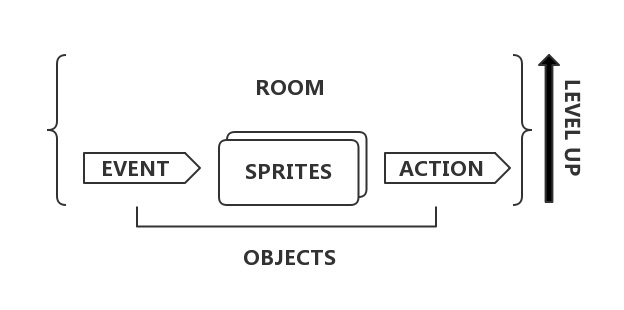
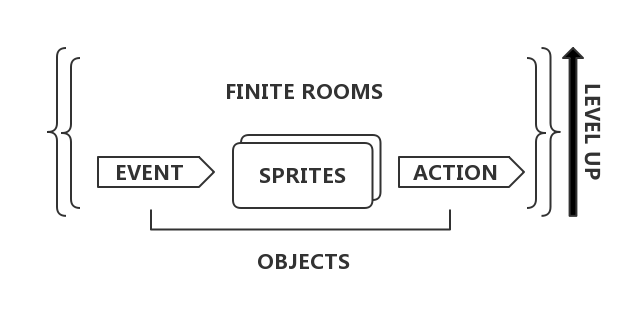
Site updated: 2018-10-13 18:41:39

diff --git a/2018/10/12/what-is-game/index.html b/2018/10/12/what-is-game/index.html
@@ -167,42 +167,47 @@
 <h3 id="Definition-of-game-from-“Rules-of-play-Game-design-fundamentals”-by-Salen-amp-Zimmerman"><a href="#Definition-of-game-from-“Rules-of-play-Game-design-fundamentals”-by-Salen-amp-Zimmerman" class="headerlink" title="Definition of game from “Rules of play : Game design fundamentals” by Salen &amp; Zimmerman"></a>Definition of game from “Rules of play : Game design fundamentals” by Salen &amp; Zimmerman</h3><blockquote>
 <p>A game is a system in which players engage in an artificial conflict, defined by rules, that results in a quantifiable outcome.</p>
 </blockquote>
-<p>This is one of the most widely recgonized academic definition of game. The key words there are <strong><em>SYSTEM / PLAYER / ARTIFICIAL CONFLICT / RULES / QUANTIFIABLE OUTCOM</em></strong>. We will compare it with GMS equation latter.</p>
-<h3 id="The-GMS’s-equation"><a href="#The-GMS’s-equation" class="headerlink" title="The GMS’s equation"></a>The GMS’s equation</h3><p><img src="/2018/10/12/what-is-game/GMS-Equation.png" alt=""></p>
-<p>These is the last page of the first chapter of official guide of <a href="https://www.youtube.com/watch?v=ubvrKQlI_1A" target="_blank" rel="external">GameMaker Studio 2</a> which introduces some basic configuration of GMS engine.</p>
-<h3 id="A-Graph-Definition-by-notlsd"><a href="#A-Graph-Definition-by-notlsd" class="headerlink" title="A Graph Definition by @notlsd"></a>A Graph Definition by @notlsd</h3><p><img src="/2018/10/12/what-is-game/General-Game-Architecture.jpg" alt=""></p>
-<p>The graph is drawn by pseudo-UML language, which defines a game, more specifically, one cell of a game, normally a level.</p>
-<p><strong><em>A game is one or more rooms under level-up conditions which includes sprites under event-action response</em></strong></p>
+<p>This is one of the most widely recgonized academic definition of game. The key words there are <strong>SYSTEM / PLAYER / ARTIFICIAL CONFLICT / RULES / QUANTIFIABLE OUTCOM</strong>. We will compare it with GMS equation later.</p>
+<h3 id="The-GMS-Equation"><a href="#The-GMS-Equation" class="headerlink" title="The GMS Equation"></a>The GMS Equation</h3><p>This is the last page of the first chapter of official guide of <a href="https://www.youtube.com/watch?v=ubvrKQlI_1A" target="_blank" rel="external">GameMaker Studio 2</a> which introduces some basic configuration of GMS engine which @notlsd call it “GMS equation”</p>
+<p><img src="/2018/10/12/what-is-game/Users/notlsd/Blog/source/_posts/what-is-game/GMS-Equation.png" alt=""></p>
+<h3 id="A-Graph-Definition-by-notlsd"><a href="#A-Graph-Definition-by-notlsd" class="headerlink" title="A Graph Definition by @notlsd"></a>A Graph Definition by @notlsd</h3><p><img src="/2018/10/12/what-is-game/Users/notlsd/Blog/source/_posts/what-is-game/General-Game-Architecture.jpg" alt="img"><span class="imgTitle">img</span></p>
+<p>This graph is drawn by pseudo-UML language, which defines a game.</p>
+<p><strong>A game is  finite number of rooms under level-up conditions which includes sprites under event-action responses</strong></p>
 <h3 id="Five-Key-Words-A-Detailed-Comparison-Between-Two-Definitions"><a href="#Five-Key-Words-A-Detailed-Comparison-Between-Two-Definitions" class="headerlink" title="Five Key Words - A Detailed Comparison Between Two Definitions"></a>Five Key Words - A Detailed Comparison Between Two Definitions</h3><ul>
-<li>ARTIFICIAL CONFLICT - Game design’s boundary </li>
+<li>SYSTEM - FINITY of Game Design</li>
 </ul>
-<p>There is a boundary in game design, which inside we call it a game. In other words, there is a clear deference we can distinguish an item whether in the game. In the boundary, is the artificial conflict which game designer have built<sup id="fnref:1"><a href="#fn:1" rel="footnote"><span class="hint--top-right hint--error hint--large" aria-label="There is still a very clear boundry in AR / VR game, in other word we can clearly tell if we are in the game.
-">[1]</span></a></sup>. We call SYSTEM but more specifically ,it should be called boundry. “Finite-infinite games” inside system</p>
+<p>There are two type games, finite game and infinite game<sup id="fnref:1"><a href="#fn:1" rel="footnote"><span class="hint--top-right hint--error hint--large" aria-label="This conecept comes from " finite="" and="" infinite="" games"="" by="" james="" carse="" "="">[1]</span></a></sup>, but only the first type can be designed. </p>
+<p>The following is definition in Wbester-Meriate’s dictionary of word “System”, more specificaly the 1d item </p>
+<blockquote>
+<p>A group of devices or artificial objects or an organization forming a network especially for distributing something or serving a common purpose</p>
+</blockquote>
+<p>What we designed is a system. If and only if we use the finity resoures the system can be built. The apperance of this finity is the limited quantity of game rooms<sup id="fnref:2"><a href="#fn:2" rel="footnote"><span class="hint--top-right hint--error hint--large" aria-label="There is still a very clear boundry in AR / VR game, in other word we can clearly tell if we are in the game.
+">[2]</span></a></sup>.</p>
 <ul>
-<li>SYSTEM - Series of LEVEL-UP ROOMS</li>
+<li>ARTIFICIAL CONFLICT - Series of LEVEL-UP ROOMS</li>
 </ul>
-<p>Inside the boundary, the game designer have built systems. More specifically, we use system to implement previous artificial conflict, via programmer’s terminology “system is instantiation of artificial conflict”. </p>
-<p>The system consists a series of rooms in which contains one special envent-action response<sup id="fnref:2"><a href="#fn:2" rel="footnote"><span class="hint--top-right hint--error hint--large" aria-label="We will discuss it detailly in " rules"="" section="" "="">[2]</span></a></sup>. As game going on, status in different rooms have been leveled up gradually. In extremely simple condition, game only consists one room and level-up just in that room.</p>
+<p>What game designer have built is an artificial conflicts. More specifically, we use system to implement it, via programmer’s terminology “system is instantiation of an artificial conflict”. </p>
+<p>The artificial conflicts consists a series of rooms in which contains it’s own envent-action response<sup id="fnref:3"><a href="#fn:3" rel="footnote"><span class="hint--top-right hint--error hint--large" aria-label="There is more detailed discussion in " rules"="" section="" "="">[3]</span></a></sup>. A room is a physical or virtual space where game take place. As game going on, status in different rooms have been leveled up gradually. In extremely simple condition, game only consists one room and level-up just in that room.</p>
 <ul>
-<li>PLAYER - Human or Artificial SPIRITS</li>
+<li>PLAYER - Human or Artificial SPIRITES</li>
 </ul>
-<p>According to Wikipedia </p>
-<p>It’s a little sophisticated about the important role sprites plays in game design. Mario is the sprite in Super Mario Bros; Pikachu is a sprites in Pokémon. It’s too important that Apple names iOS game design framework SpriteKit.</p>
-<p>In programming, player is sprits. These players can be controlled by Human which is player button in player’s view, or controlled by A.I. which simply called NPC (Non-player-contolled).</p>
+<p>According to Wikipedia</p>
+<p>It’s a little sophisticated about the important role which sprites plays in game design. Mario is the sprite in Super Mario Bros; Pikachu is a sprites in Pokémon; Pac-man is the sprite in the Pac-man. Sprites is  too important in game design that Apple names iOS game design framework “SpriteKit”.</p>
+<p>in the view of programming perspective, players in game is sprites. These players can be controlled by Human which is player’s avatar itself , or controlled by A.I. which simply called NPC (Non-player-contolled).</p>
 <ul>
 <li>RULES - EVENT-ACTION Response</li>
 </ul>
 <p>GMS is using Event-Action to represent basic game logic.  As we mentioned earlier the core difference between rooms is the different event-action response they contains</p>
-<p>The following is one of definitions in Wbester-Meriate’s dictionary of word “Play”, more specificaly the 4c item </p>
+<p>The following is definition in Wbester-Meriate’s dictionary of word “Play”, more specificaly the 4c item </p>
 <blockquote>
 <p>to perform an action during one’s turn in a game</p>
 </blockquote>
-<p>In the system the player plays. The key concept of “play” itself is to perform some action to respond some event, In Tetris when bricks drops off, the player move it, In Civilization player respond to massive number of event from “Declaration of War” to “Change Production Queue”</p>
+<p>In the system the player plays. The key concept of “play” itself is to perform some action to respond some event, In “Tetris” when bricks drops off, the player move it, In “Civilization” player respond to massive number of event from “Declaration of War” to “Change Production Queue”</p>
 <ul>
 <li>QUANTIFIABLE OUTCOM - LEVEL-UP of everything</li>
 </ul>
-<p>Quantifiable outcom is the connection to everything in the game. The gaming terminology is “Level-up”. During the game process, players and enenimis are all become stronger. And if you cannot level up enough, you lose. These stepped level-up is the source of game’s rythms. </p>
-<h3 id="Instances-Analysis-Tetris-•-Civilization-•-Overwatch-•-Go"><a href="#Instances-Analysis-Tetris-•-Civilization-•-Overwatch-•-Go" class="headerlink" title="Instances Analysis - Tetris • Civilization • Overwatch • Go"></a>Instances Analysis - Tetris • Civilization • Overwatch • Go</h3><table>
+<p>Quantifiable outcom is the connection of everything in the game. The gaming terminology is “Level-up”. During the game process, players and enenimis are all become stronger. And if you cannot level up enough, you lose. These stepped level-up is also the source of game’s rythms. </p>
+<h3 id="Instances-Analysis-Tetris-•-Civilization-•-Overwatch-•-Go-•-Slay-Spire"><a href="#Instances-Analysis-Tetris-•-Civilization-•-Overwatch-•-Go-•-Slay-Spire" class="headerlink" title="Instances Analysis - Tetris • Civilization • Overwatch • Go • Slay Spire"></a>Instances Analysis - Tetris • Civilization • Overwatch • Go • Slay Spire</h3><table>
 <thead>
 <tr>
 <th style="text-align:center">Game</th>
@@ -212,6 +217,7 @@
 <th style="text-align:center">Event</th>
 <th style="text-align:center">Action</th>
 <th style="text-align:center">Quantitive Level Up</th>
+<th style="text-align:center">Finity  Criterion</th>
 </tr>
 </thead>
 <tbody>
@@ -223,6 +229,7 @@
 <td style="text-align:center">Dropping Bricks</td>
 <td style="text-align:center">Moving Bricks</td>
 <td style="text-align:center">Count of Elemination</td>
+<td style="text-align:center">No Space</td>
 </tr>
 <tr>
 <td style="text-align:center">Civilization</td>
@@ -232,37 +239,44 @@
 <td style="text-align:center">Turn-based Event</td>
 <td style="text-align:center">Player’s action</td>
 <td style="text-align:center">Culture • Food • Gold • Happiness • Production • Religion • Science • Tourism • Population etc</td>
+<td style="text-align:center">Any Civilization Win</td>
 </tr>
 <tr>
-<td style="text-align:center">Overwatch<sup id="fnref:4"><a href="#fn:4" rel="footnote"><span class="hint--top-right hint--error hint--large" aria-label="Thanks to @Banaive for information about Overwatch">[4]</span></a></sup></td>
+<td style="text-align:center">Overwatch <sup id="fnref:5"><a href="#fn:5" rel="footnote"><span class="hint--top-right hint--error hint--large" aria-label="Thanks to @Banaive for information about Overwatch">[5]</span></a></sup></td>
 <td style="text-align:center">FPS</td>
 <td style="text-align:center">Artificial Map</td>
 <td style="text-align:center">Hero</td>
 <td style="text-align:center">Others’ Action</td>
 <td style="text-align:center">Heros’ Action</td>
 <td style="text-align:center">Ultimate</td>
+<td style="text-align:center">Time Up / Map Control</td>
 </tr>
 <tr>
-<td style="text-align:center">Slay the Spire</td>
+<td style="text-align:center">Slay Spire</td>
 <td style="text-align:center">Card</td>
 <td style="text-align:center">Battlefiled Box • Map</td>
 <td style="text-align:center">Player • Enemy</td>
 <td style="text-align:center">Enemy’s Action</td>
 <td style="text-align:center">Player’s Action</td>
 <td style="text-align:center">Coins • Relic • Card</td>
+<td style="text-align:center">50th Floor / Death</td>
 </tr>
 <tr>
 <td style="text-align:center">Go</td>
 <td style="text-align:center">Board</td>
 <td style="text-align:center">Go board</td>
 <td style="text-align:center">Go stone</td>
-<td style="text-align:center">Enemy Play Stone</td>
-<td style="text-align:center">Play stone</td>
+<td style="text-align:center">Opponent ‘s Stone</td>
+<td style="text-align:center">Play Stone</td>
 <td style="text-align:center">Territory</td>
+<td style="text-align:center">No Space</td>
 </tr>
 </tbody>
 </table>
-<div id="footnotes"><hr><div id="footnotelist"><ol style="list-style: none; padding-left: 0; margin-left: 40px"><li id="fn:1"><span style="display: inline-block; vertical-align: top; padding-right: 10px; margin-left: -40px">1.</span><span style="display: inline-block; vertical-align: top; margin-left: 10px;">There is still a very clear boundry in AR / VR game, in other word we can clearly tell if we are in the game.<a href="#fnref:1" rev="footnote"> ↩</a></span></li><li id="fn:2"><span style="display: inline-block; vertical-align: top; padding-right: 10px; margin-left: -40px">2.</span><span style="display: inline-block; vertical-align: top; margin-left: 10px;">We will discuss it detailly in &quot;RULES&quot; section<a href="#fnref:2" rev="footnote"> ↩</a></span></li><li id="fn:3"><span style="display: inline-block; vertical-align: top; padding-right: 10px; margin-left: -40px">3.</span><span style="display: inline-block; vertical-align: top; margin-left: 10px;">&gt; In computer graphics, a sprite is a two-dimensional bitmap that is integrated into a larger scene.<a href="#fnref:3" rev="footnote"> ↩</a></span></li><li id="fn:3"><span style="display: inline-block; vertical-align: top; padding-right: 10px; margin-left: -40px">3.</span><span style="display: inline-block; vertical-align: top; margin-left: 10px;"><a href="https://en.wikipedia.org/wiki/Sprite_(computer_graphics" target="_blank" rel="external">https://en.wikipedia.org/wiki/Sprite_(computer_graphics</a>)<a href="#fnref:3" rev="footnote"> ↩</a></span></li><li id="fn:4"><span style="display: inline-block; vertical-align: top; padding-right: 10px; margin-left: -40px">4.</span><span style="display: inline-block; vertical-align: top; margin-left: 10px;">Thanks to @Banaive for information about Overwatch<a href="#fnref:4" rev="footnote"> ↩</a></span></li></ol></div></div>
+<ul>
+<li>Update Log 2.0 - Add Everthing related about “Finity” including but not limited to words, graph and table</li>
+</ul>
+<div id="footnotes"><hr><div id="footnotelist"><ol style="list-style: none; padding-left: 0; margin-left: 40px"><li id="fn:1"><span style="display: inline-block; vertical-align: top; padding-right: 10px; margin-left: -40px">1.</span><span style="display: inline-block; vertical-align: top; margin-left: 10px;">This conecept comes from &quot;Finite and Infinite Games&quot; by James Carse<a href="#fnref:1" rev="footnote"> ↩</a></span></li><li id="fn:2"><span style="display: inline-block; vertical-align: top; padding-right: 10px; margin-left: -40px">2.</span><span style="display: inline-block; vertical-align: top; margin-left: 10px;">There is still a very clear boundry in AR / VR game, in other word we can clearly tell if we are in the game.<a href="#fnref:2" rev="footnote"> ↩</a></span></li><li id="fn:3"><span style="display: inline-block; vertical-align: top; padding-right: 10px; margin-left: -40px">3.</span><span style="display: inline-block; vertical-align: top; margin-left: 10px;">There is more detailed discussion in &quot;RULES&quot; section<a href="#fnref:3" rev="footnote"> ↩</a></span></li><li id="fn:4"><span style="display: inline-block; vertical-align: top; padding-right: 10px; margin-left: -40px">4.</span><span style="display: inline-block; vertical-align: top; margin-left: 10px;">&gt; In computer graphics, a sprite is a two-dimensional bitmap that is integrated into a larger scene.<a href="#fnref:4" rev="footnote"> ↩</a></span></li><li id="fn:4"><span style="display: inline-block; vertical-align: top; padding-right: 10px; margin-left: -40px">4.</span><span style="display: inline-block; vertical-align: top; margin-left: 10px;"><a href="https://en.wikipedia.org/wiki/Sprite_" target="_blank" rel="external">https://en.wikipedia.org/wiki/Sprite_</a>(computer_graphics)<a href="#fnref:4" rev="footnote"> ↩</a></span></li><li id="fn:5"><span style="display: inline-block; vertical-align: top; padding-right: 10px; margin-left: -40px">5.</span><span style="display: inline-block; vertical-align: top; margin-left: 10px;">Thanks to @Banaive for information about Overwatch<a href="#fnref:5" rev="footnote"> ↩</a></span></li></ol></div></div>
     </div>
 
     

diff --git a/2017/06/13/polytopia-a-mobilized-civilization/index.html b/2017/06/13/polytopia-a-mobilized-civilization/index.html
@@ -170,7 +170,7 @@ This essay will analyze the game design of &amp;lt; The Battle of Polytopia &amp
 <a id="more"></a>
 <h3 id="Game-Archtechure"><a href="#Game-Archtechure" class="headerlink" title="Game Archtechure"></a>Game Archtechure</h3><p>There are more than dozens sub-systems in CivBNW - Military, Population, Production, Culture, Gold, Food, Faith, Diplomacy, Terrain, Building, Wonder, Technology, Ideology …… even more.   </p>
 <p>Polytopia have skilled chosen some of CivBNW’s system as well as have created some of its own. All the following proper nouns are invented by @notlsd, not the game author.</p>
-<figure class="highlight plain"><table><tr><td class="code"><pre><div class="line"></div><div class="line">├── CITY SYSTEM</div><div class="line">│   ├── City Level Indication</div><div class="line">│   └── City Upgrade Bonus</div><div class="line">│</div><div class="line">├── MAP SYSTEM </div><div class="line">│   ├── Terrain Limitation</div><div class="line">│   ├── Terrain Modification </div><div class="line">│   ├── Visible Area</div><div class="line">│   └── National Land Area</div><div class="line">│</div><div class="line">├── COMBAT SYSTEM </div><div class="line">│   ├── City Capture</div><div class="line">│   ├── XP System</div><div class="line">│   └── Unit System</div><div class="line">│</div><div class="line">├── TECHNOLOGY SYSTEM</div><div class="line">│  </div><div class="line">├── SCORE SYSTEM </div><div class="line">│</div><div class="line">├── GENERAL EQUIVALENCE (STAR) SYSTEM</div><div class="line">│</div><div class="line">└── VICTORY SYSTEM</div><div class="line"></div><div class="line">│   └── Ruins Bonus</div></pre></td></tr></table></figure>
+<figure class="highlight plain"><table><tr><td class="code"><pre><div class="line">├── ROOMS </div><div class="line">|	└── MAP SYSTEM </div><div class="line">│   	├── TERRAIN </div><div class="line">│   	└── VISIBILITY</div><div class="line">│</div><div class="line">├── SIPIRTES</div><div class="line">|	└── UNIT SYSTEM </div><div class="line">│</div><div class="line">├── OBJECTS (EVENT-ACTION CHAIN)</div><div class="line">|	└── COMBAT SYSTEM  </div><div class="line">|</div><div class="line">├── EVENT </div><div class="line">|	└── RUINS SYSTEM</div><div class="line">|</div><div class="line">├── ACTION </div><div class="line">|	└── TECHNOLOGY SYSTEM</div><div class="line">│</div><div class="line">├── LEVEL-UP</div><div class="line">│	├── CITY SYSTEM</div><div class="line">│	├── CURRENCY SYSTEM（STARS）</div><div class="line">│   └── XP SYSTEM</div><div class="line">|</div><div class="line">└── FINITE</div><div class="line">	├── SCORE SYSTEM </div><div class="line">	└── CAPTURE SYSTEM</div></pre></td></tr></table></figure>
 <h4 id="City-System"><a href="#City-System" class="headerlink" title="City System"></a>City System</h4><p>City is the basic self-sufficient production unit in CivBNW as well as base on other RTS like StarCraft, Red Alert and Epire Times. Polytopia have copied the idea from civilization with great simplification. </p>
 <ul>
 <li><p><strong><em>City Level Indication</em></strong> Combined Population and Production system of CivBNW to increase the population that city can carry and the income stars each turn (Customs Houses excluded). The step increase is linear. It is the most basic system of the whole game, it is the basic measurement of how many resources you empire carries. This system is really concise and elegant. It’s the basic configration which meets “KISS” principle, Keep it simple and stupid</p>
